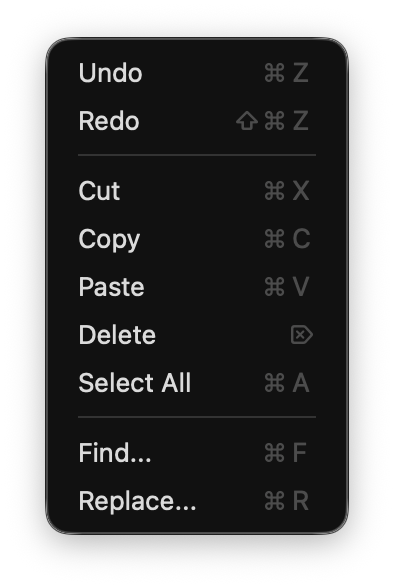
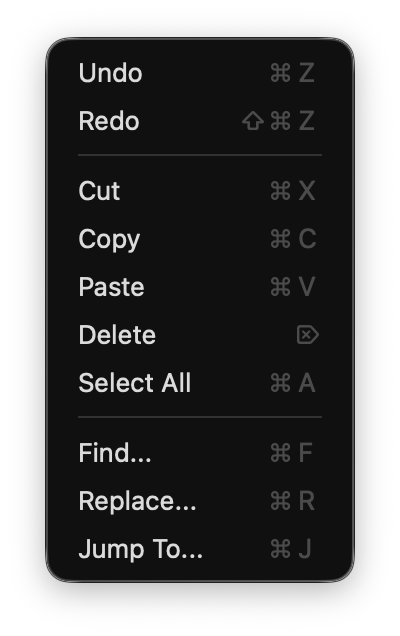
version 2.1

Changed region(s): [[0.0914, 0.0306, 0.9137, 0.9184]]

diff --git a/docs/language/expressions/expressions.md b/docs/language/expressions/expressions.md
@@ -5,7 +5,7 @@ A Boolean value can be either `false` or `true`.
 
 
 ### Numbers
-The sharkC64 language recognizes decimal values, hexadecimal values, and binary values.
+The SharkC64 language recognizes decimal values, hexadecimal values, and binary values.
 Hexadecimal values start with `$`, and binary values start with `%`.
 A number value can be in the range [`$0000` .. `$FFFF`]. 
 The data type of a value bigger than `$FF` is always a `word`.
@@ -42,7 +42,7 @@ assumed type in the expression.
 
 
 ### Operators
-The sharkC64 language supports all standard operators that are also supported by the processor.
+The SharkC64 language supports all standard operators that are also supported by the processor.
 Supported operators are listed below. 
 An operator belonging to a higher precedence group in the table binds 
 stronger than an operator belonging to a lower precedence group in the table.
@@ -71,9 +71,9 @@ Also, (operand) means that the result data type is the same as the operand data 
 
 
 ### Type inference and type casting
-The sharkC64 compiler has a bottom-up type inference.
+The SharkC64 compiler has a bottom-up type inference.
 You can read more about the type inference in [Types](types.md) section.
-The sharkC64 compiler does not perform any type casting automatically. It must be given 
+The SharkC64 compiler does not perform any type casting automatically. It must be given 
 explicitly by the programmer. For this purpose, there are the following unary operators.
 
 
@@ -101,14 +101,14 @@ If, however, disjunction needs to be evaluated before the sums,
 it can be achieved by using parentheses:
 `a + (b or -c) + d`
 
-Although the sharkC64 compiler follows the left-to-right evaluation order for expressions while parsing them,
+Although the SharkC64 compiler follows the left-to-right evaluation order for expressions while parsing them,
 the optimization and simplification rules most likely change the computation order at run-time.
 As long as expression operands have no side effects, the computation result is equivalent to
 that computed using a strict left-to-right evaluation order.
 
-The goal of the sharkC64 compiler is to produce compact and efficient bytecode.
+The goal of the SharkC64 compiler is to produce compact and efficient bytecode.
 To do this, it first tries to simplify the expression by using fixed values and constants.
-With fixed values and constants, the sharkC64 compiler can precompute the expression at 
+With fixed values and constants, the SharkC64 compiler can precompute the expression at 
 compile time. Then, the resulting fixed value us used directly in the bytecode.
 After that, the compiler compiles bytecode instructions for the right-hand side expression 
 before the left-hand side expression. This produces fewer instructions in general, 

diff --git a/docs/index.md b/docs/index.md
@@ -1,16 +1,16 @@
-# sharkC64
+# SharkC64
 
-The sharkC64 programming language is designed to be used for the development of computer programs 
+The SharkC64 programming language is designed to be used for the development of computer programs 
 for the Commodore C64. 
 
-The sharkC64 language is a modular programming language. 
+The SharkC64 language is a modular programming language. 
 It supports primitive data types: booleans, bytes, and words.
 It also supports use of one-dimensional and two-dimensional byt arrays.
-A module in the sharkC64 language consists of constants, variables, functions, and a module body.
+A module in the SharkC64 language consists of constants, variables, functions, and a module body.
 A module may refer to other modules, use their variables, and call their functions.
 
-The sharkC64 IDE comes bundled with a compiler and a bunch of example programs.
-The sharkC64 IDE is published under MIT license.
+The SharkC64 IDE comes bundled with a compiler and a bunch of example programs.
+The SharkC64 IDE is published under MIT license.
 
 
 ## Index
@@ -18,7 +18,7 @@ The sharkC64 IDE is published under MIT license.
 
 1. Prerequisites
    1. [Setup](prerequisites/setup.md)
-   2. [Installing sharkC64 IDE](prerequisites/installing.md)
+   2. [Installing SharkC64 IDE](prerequisites/installing.md)
 2. Language structures
    1. Expressions
       1. [Types](language/expressions/types.md)
@@ -41,9 +41,9 @@ The sharkC64 IDE is published under MIT license.
       4. [Module initialization](language/modules/initialization.md)
    4. [Comments](language/comments.md)
    5. [Language syntax](language/syntax.md)
-3. Using the sharkC64 IDE
+3. Using the SharkC64 IDE
    1. Starting up and Settings
-      1. [Starting sharkC64 IDE](ide/starting-up/starting.md)
+      1. [Starting SharkC64 IDE](ide/starting-up/starting.md)
       2. [Setting the home directory](ide/starting-up/set-home.md)
       3. [Setting the emulator for running a program](ide/starting-up/set-emulator.md)
    2. Working with Examples
@@ -65,6 +65,8 @@ The sharkC64 IDE is published under MIT license.
       1. [Compiling a module](ide/compiler/compile.md)
       2. [Building the project](ide/compiler/build.md)
       3. [Running the project](ide/compiler/run.md)
+   5. Designer Actions
+      1. [Viewing a module dependency diagram](ide/designer/diagram.md)
 4. Roadmap
    1. [Release history](roadmap/history.md)
    2. [Future plans](roadmap/future.md)

diff --git a/docs/ide/designer/diagram.md b/docs/ide/designer/diagram.md
@@ -1,0 +1,54 @@
+# Viewing a module dependency diagram 
+
+You can open a module dependency diagram for a persisted project from the designer menu.
+
+![Designer menu](../../images/menu/designer.png)
+
+To open the module dependency diagram for a persisted project, select the "Show Module Diagram" item.
+It first builds the entire project and then opens a dependency diagram based on the built information.
+The diagram is shown in the Editor view. 
+For instance, for the pingpong project, the module dependency diagram looks like this.
+
+![Module dependency diagram](../../images/diagram/dependency-diagram.png)
+
+You can click which details you wish to see in the diagram with the checkboxes. 
+The diagram is updated immediately with your choice.
+
+![Dependency diagram with details](../../images/diagram/dependency-diagram-with-details.png)
+
+You can also zoom in and out the diagram, for instance to fit it entire in the view.
+
+![Dependency diagram zoomed](../../images/diagram/dependency-diagram-zoomed.png)
+
+If you click a module in the diagram, it is highlighted along with all its dependencies.
+This information helps in refining the implementation to minimize unwanted dependencies.
+
+![Dependency diagram clicked](../../images/diagram/dependency-diargam-module-clicked.png)
+
+If you click an element in a highlighted module in the diagram, the corresponding module
+is opened in the editor with the element selected. For instance, in the image above,
+if you click the onPlayground element, it is shown in the editor.
+
+![Editor with select element](../../images/diagram/editor-onplayground.png)
+
+
+
+There are also two buttons "rebuild" and "save..." in the control panel.
+
+![Module dependency diagram](../../images/diagram/dependency-diagram.png)
+
+By clicking "rebuild", the integrated development environment rebuilds
+the project and then updates the diagram to match the built project.
+This way, once the diagram is opened, you can modify the implementation
+and come back to the diagram even if the project does not compile.
+
+By clicking the other button, "save...", you can save the diagram that you see
+into a png file. In other words, if you have selected only constants to be
+shown in the diagram, the view is then saved into the png file.
+Moreover, if you have zoomed out, the png file will also have that zoomed
+out content.
+
+
+<br /><br />
+:leftwards_arrow_with_hook: [Back to index](../../index.md)
+

diff --git a/docs/language/expressions/arrays.md b/docs/language/expressions/arrays.md
@@ -1,6 +1,6 @@
 # Byte arrays
 
-At the moment, the sharkC64 language supports only one-dimensional or two-dimensional byte arrays. 
+At the moment, the SharkC64 language supports only one-dimensional or two-dimensional byte arrays. 
 A byte array is an array whose elements are bytes. 
 The length of a dimension in a byte array is limited to 256 elements. 
 The reason for this limitation is that working with such arrays is supported by the microprocessor of the Commodore 64. 
@@ -26,14 +26,14 @@ A two-dimensional byte array must have at least one row and column, and
 it cannot have more than 256 rows or columns.
 In the example above, the `screen` variable has `25` rows and `40` columns. 
 
-If a byte array is not given a static memory location, the sharkC64 compiler will
+If a byte array is not given a static memory location, the SharkC64 compiler will
 allocate as many bytes from the memory for it as its length states.
 Moreover, the allocated memory is initialized with zero values.
 This means that, for instance, the value of `data[$05]` in the above example is 
 set to `0` initially, and it will remain `0` as long as no other value is assigned to it.
 
 A byte array without a static memory location can be given initial values. 
-Then, the sharkC64 compiler infers the length of the byte array. 
+Then, the SharkC64 compiler infers the length of the byte array. 
 If the length is explicitly given for the array, it must agree with the number of the initial values.
 When a byte array is given initial values, the allocated memory is initialized
 with them instead of the default zero values.
@@ -42,7 +42,7 @@ set to `5` initially, and it will remain `5` as long as no other value is assign
 For two-dimensional byte arrays, rows in the initial values are separated with `;`.
 In the example above, the `data2d` array has `2` rows and `3` columns.
 
-If a byte array is given a static memory location, the sharkC64 compiler will
+If a byte array is given a static memory location, the SharkC64 compiler will
 not allocate any memory for it, and it will not be initialized to any value either.
 Then, its first element is found at the memory address, and the rest of the
 elements in the byte array are found in the following memory locations.

diff --git a/docs/ide/projects/edit-module.md b/docs/ide/projects/edit-module.md
@@ -40,6 +40,36 @@ You can replace all the text instances by clicking the "all" button.
 You can close the entire replacement panel by clicking the cross button next to the "all" button.
 
 
+## Jumping in source code
+
+Suppose you have cursor placed in a module source code over a term,
+like `block.height`, as in the image below.
+
+![Jump source module](../../images/editor/jump-source.png)
+
+If you then select the menu item "Jump To...", the SharkC64 IDE
+will automatically open the module `block` and locate the
+first occurrence of the term `height` in it.
+
+![Jump target module](../../images/editor/jump-target.png)
+
+This works for all the terms, such as constants, variables, data sections, and functions.
+
+If, however, the cursor is not over a term, and the menu item "Jump To..."
+is selected, a dialog is opened, where you can type in the term 
+that you wish to locate.
+
+![Jump dialog](../../images/editor/jump-dialog.png)
+
+It should be noted that at the moment jumping in the source code is not fully accurate.
+It will locate the first occurrence of a term in a module.
+This means that if the module has similarly named terms, the first one of them is located. 
+That may not be the term that was looked for.
+Thus, the jumping fails, for instance, if a module imports or uses another module
+that has the same name as a variable that was looked for. 
+Then, the module is located in the use section instead of the variable of the module. 
+
+
 ## Switching between modules
 You can switch between the modules by clicking the tab name in the editor view.
 Alternatively, you can click the module name in the Project tab to open the module

diff --git a/docs/prerequisites/installing.md b/docs/prerequisites/installing.md
@@ -1,22 +1,22 @@
 # Installing
 
-Before installing the sharkC64 IDE, check that you have installed compatible Java Runtime
+Before installing the SharkC64 IDE, check that you have installed compatible Java Runtime
 environment (or development kit) and VICE emulator, see [setup](setup.md).
 
-Steps to install the latest version of the sharkC64 IDE:
+Steps to install the latest version of the SharkC64 IDE:
 1. Open the release page [here](https://github.com/mauno-j-ronkko/sharkC64/releases).
 2. Click the "Assets" option on the latest release. It will open a list of assets,
    including a jar file named "sharkC64-x.y.jar", where "x.y" is the latest version.
 3. Click the file "sharkC64-x.y.jar", and it will start the downloading immediately. 
    Your browser will indicate where the file has been downloaded.
-4. You can relocate the jar file to any folder, where you would like to run the sharkC64 IDE.
+4. You can relocate the jar file to any folder, where you would like to run the SharkC64 IDE.
 5. The jar file can be executed either from the command-line:
    ```
    java -jar shakrC64-x.y.z.jar
    ```
    OR, if your OS configuration allows, the IDE can be started by double-clicking the jar file. 
 
-To learn more about how to run the sharkC64 IDE, see the instructions for [Starting sharkC64 IDE](../ide/starting-up/starting.md).
+To learn more about how to run the SharkC64 IDE, see the instructions for [Starting SharkC64 IDE](../ide/starting-up/starting.md).
 
 <br /><br />
 :leftwards_arrow_with_hook: [Back to index](../index.md)

diff --git a/docs/ide/starting-up/starting.md b/docs/ide/starting-up/starting.md
@@ -1,12 +1,12 @@
-# Starting the sharkC64 IDE 
+# Starting the SharkC64 IDE 
 
-Instructions to downloading and installing the sharkC64 IDE can be found on a page 
-describing [installation](../../prerequisites/installing.md). Before starting the sharkC64 IDE, 
+Instructions to downloading and installing the SharkC64 IDE can be found on a page 
+describing [installation](../../prerequisites/installing.md). Before starting the SharkC64 IDE, 
 check that you have installed a compatible Java Runtime environment, see [setup](../../prerequisites/setup.md).
 
-The following instructions assume that you have downloaded the sharkC64 jar file.
+The following instructions assume that you have downloaded the SharkC64 jar file.
 
-Here are steps to start sharkC64.
+Here are steps to start SharkC64.
 1. Open the folder, where you have downloaded `sharkC64-x.y.jar` file.
 2. Double-click the jar file.
    Note that some OS policies may restrict you from executing the jar file without
@@ -19,7 +19,7 @@ Here are steps to start sharkC64.
    ```
    java -jar sharkC64-x.y.jar
    ```
-3. The integrated development environment for the sharkC64 should open with a greeting.
+3. The integrated development environment for the SharkC64 should open with a greeting.
    ![Welcome](../../images/welcome.png)
 
 

diff --git a/docs/language/statements/functions.md b/docs/language/statements/functions.md
@@ -59,7 +59,7 @@ end
 
 
 ### Function variables
-Unlike in many other programming languages, the functions in sharkC64 are _stateful_.
+Unlike in many other programming languages, the functions in SharkC64 are _stateful_.
 This means that the variables that defined locally in functions retain their
 value from one function call to the next. 
 In particular, this means that initial values defined in the variable declaration
@@ -91,8 +91,8 @@ ball.erase().moveToLeft().draw(color.white)
 
 
 ### Function calls and call chaining
-The sharkC64 language supports also implicit setter functions that can be embedded in 
-call chaining. In the sharkC64 language, all primitive variables have automatically 
+The SharkC64 language supports also implicit setter functions that can be embedded in 
+call chaining. In the SharkC64 language, all primitive variables have automatically 
 generated setter functions. The setter functions have the same name as the variables.
 When a setter function is called with a value, it simply assigns that value to the variable.
 In fact, the setter function is mere syntactic sugar, and it is always translated

diff --git a/docs/language/statements/assignments.md b/docs/language/statements/assignments.md
@@ -12,7 +12,7 @@ a result value of type `byte`, the variable must also be of type `byte`.
 
 
 ### Increments and decrements
-The sharkC64 compiler recognizes and optimizes two special cases: increments and decrements.
+The SharkC64 compiler recognizes and optimizes two special cases: increments and decrements.
 If an assignment increments the value of a variable by one, it will be computed by
 using the increment instruction of the microprocessor. 
 The same applies to an assignment statement that decrements the values of a variable by one.
@@ -32,7 +32,7 @@ a byte array called `data`.
   data[$02] := data[$01] + $F0 
 ```
 
-The sharkC64 language supports also the assignment of one-dimensional byte arrays.
+The SharkC64 language supports also the assignment of one-dimensional byte arrays.
 For instance, the following assignment statement copies all the values from
 an array called `source` to an array called `target`.
 ```

diff --git a/projects/pingpong/README.md b/projects/pingpong/README.md
@@ -34,23 +34,9 @@ The program consists of the following modules:
 
 
 The modules form the following dependency graph:
-```
-                         pingpong 
-                        /   |    \      
-                   sound    |     tiles
-                            |          \
-                +-----------+           \
-               / \         / \           \ 
-            ball  score  bat  playground  tile
-           /    \  \     /  \      \     /    \
-  collision      \  \   /   key     \   /      flash
-                  \  \ /             \ /     
-                   +--+       +-------+
-                       \     /               
-                        print                
-                        /   \ 
-                   screen   color
-```
+
+![Dependency diagram](./diagram.png)
+
 
 Published under MIT License </BR>
 Copyright (C) Mauno Rönkkö, 2023-2025 </BR>

diff --git a/docs/ide/projects/new-project.md b/docs/ide/projects/new-project.md
@@ -11,15 +11,15 @@ and it can contain only letters and numbers.
 
 ![New project dialog](../../images/dialog/new-project.png)
 
-Once, you click the Save button on the dialog, sharkC64 creates the new project with
+Once, you click the Save button on the dialog, SharkC64 creates the new project with
 the main module. The name of the main module is the same as the name of the project.
-The sharkC64 IDE opens also the main module in the editor view.
+The SharkC64 IDE opens also the main module in the editor view.
 
 ![New project](../../images/project/persisted.png)
 
 Note that the status bar for the Project tab indicates that this is indeed
 as persisted project that can be reopened after closing the IDE.
-The home screen of the sharkC64 IDE looks as follows:
+The home screen of the SharkC64 IDE looks as follows:
 
 <br /><br />
 :leftwards_arrow_with_hook: [Back to index](../../index.md)

diff --git a/docs/language/expressions/variables.md b/docs/language/expressions/variables.md
@@ -8,7 +8,7 @@ var  a, b, c : byte
      corner : byte at $400 := zero + $01
 ```
 
-Each variable must have a unique name. In the sharkC64 language, all the names are case-sensitive.
+Each variable must have a unique name. In the SharkC64 language, all the names are case-sensitive.
 The type of the variable must also be given, unless the type of the variable 
 can be inferred from its initial value. For instance, above, the type of the
 variable `zero` is `byte` as that is the type of the initial value `$00`.
@@ -42,7 +42,7 @@ memory location when the variable is accessed.
 
 
 ### Implicit setter functions
-In the sharkC64 language, all primitive variables have automatically
+In the SharkC64 language, all primitive variables have automatically
 generated setter functions. You can read more about setter functions in the 
 [chapter for functions](../statements/functions.md).
 
